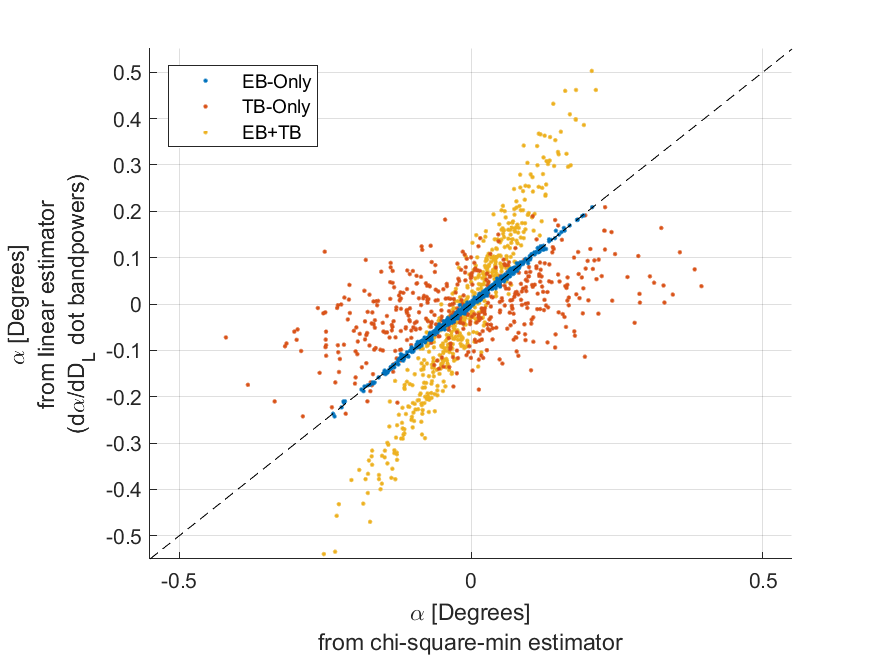
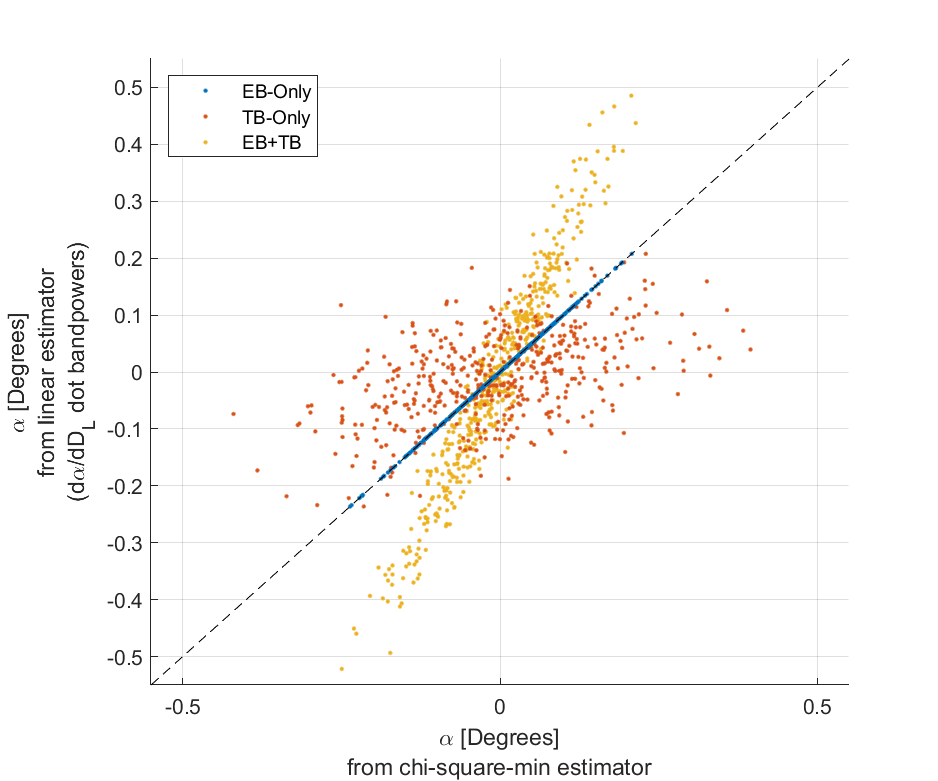
ugh

diff --git a/20230214_IPR_B18_mat_pure/index.html b/20230214_IPR_B18_mat_pure/index.html
@@ -498,7 +498,7 @@ I've now included B18 into these pagers. I am also now crossing Unlensed LCDM T&
     <figure>
         <img alt="Name pager" id="linestpager" src="#" onerror=this.src="figs/blank_6x4.png" width="100%"/>
         <figcaption>
-            Each dot represents a single realization from B18. &alpha; along the y-axis is calculated by taking the dot product of d&alpha;/dD<sub>&ell;</sub> in the left plots of Fig 2.2 with their respective band powers.
+            Each dot represents a single realization from B18. &alpha; along the y-axis is calculated by taking the dot product of d&alpha;/dD<sub>&ell;</sub> in the right plots of Fig 2.2 with their respective band powers.
         </figcaption>
         <script type="text/javascript">
             pager.link("#linestpager",
